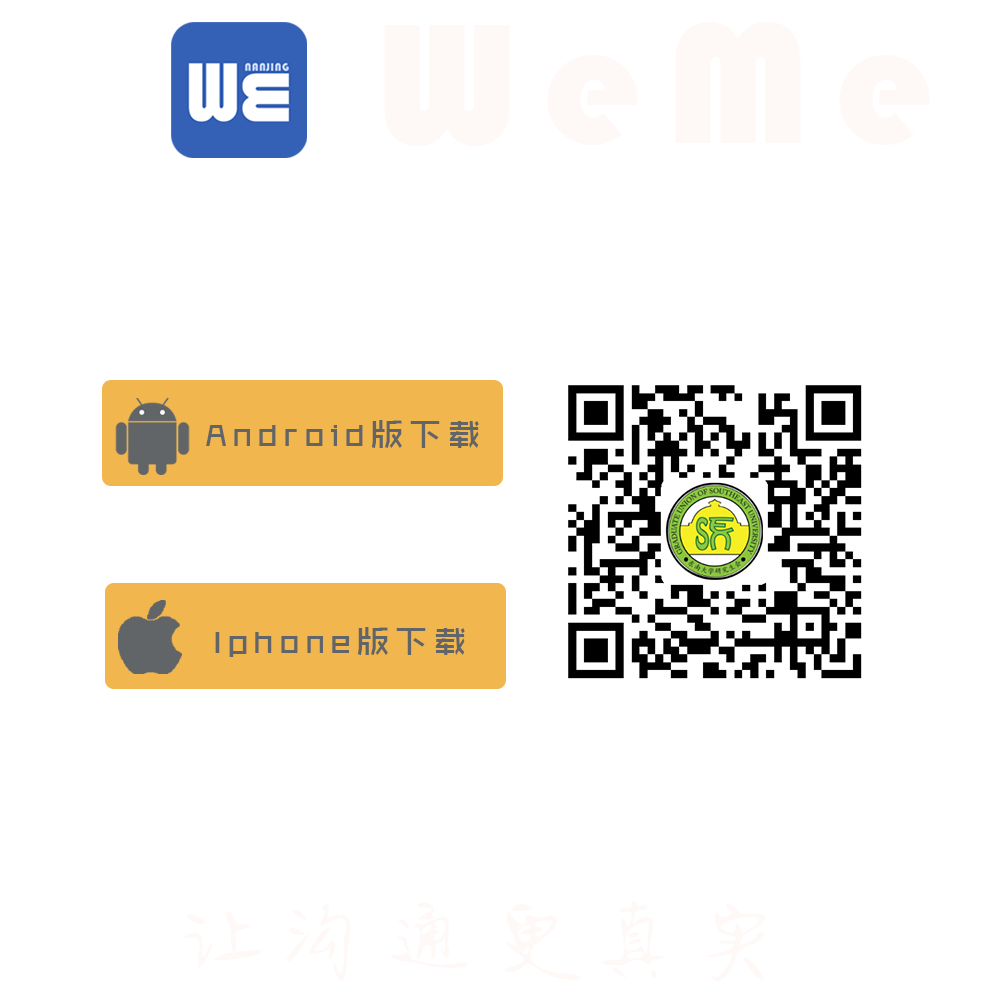
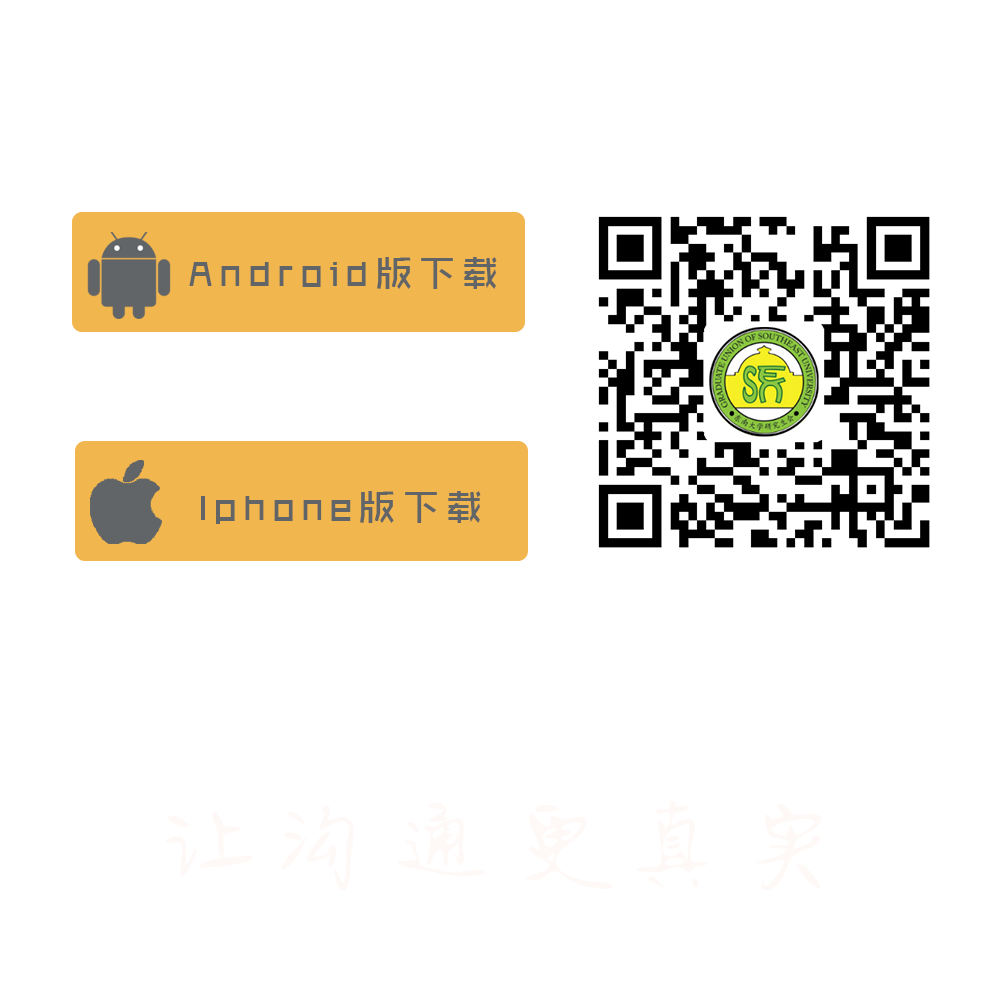
ADD media-query for mobile display,some fixes on imgs and so on.

diff --git a/wein.js b/wein.js
@@ -31,7 +31,7 @@ var fortuneCookies = [
 ];
 
 app.get('/', function(req, res) {
-	res.render('landing');
+	res.render('landing',{layout:'main_no_css'});
 });
 app.get('/home', function(req, res) {
 	res.render('home');
